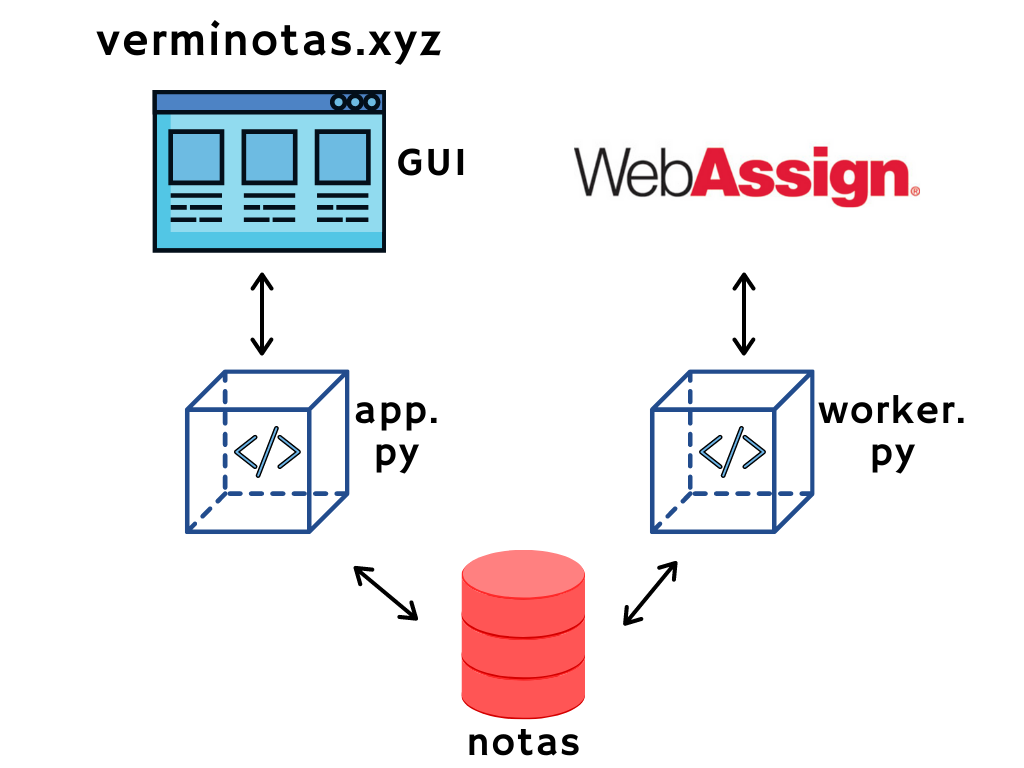
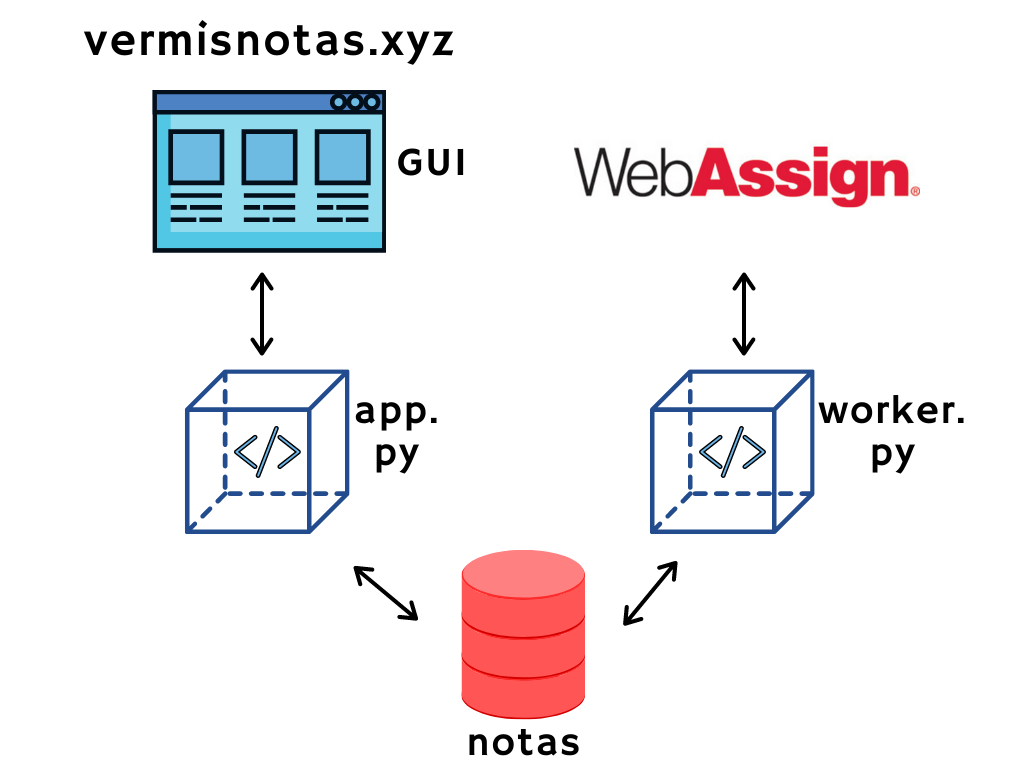
fixed typo in arq overview and changed env to developlment

Changed region(s): [[0.0625, 0.0312, 0.4375, 0.0938]]

diff --git a/worker/worker.py b/worker/worker.py
@@ -8,7 +8,7 @@ from selenium.webdriver.support.ui import Select
 
 from loginDetails import username, password
 
-environment = os.getenv("ENVIRONMENT", "production")
+environment = os.getenv("ENVIRONMENT", "development")
 
 
 class WebAssign():
